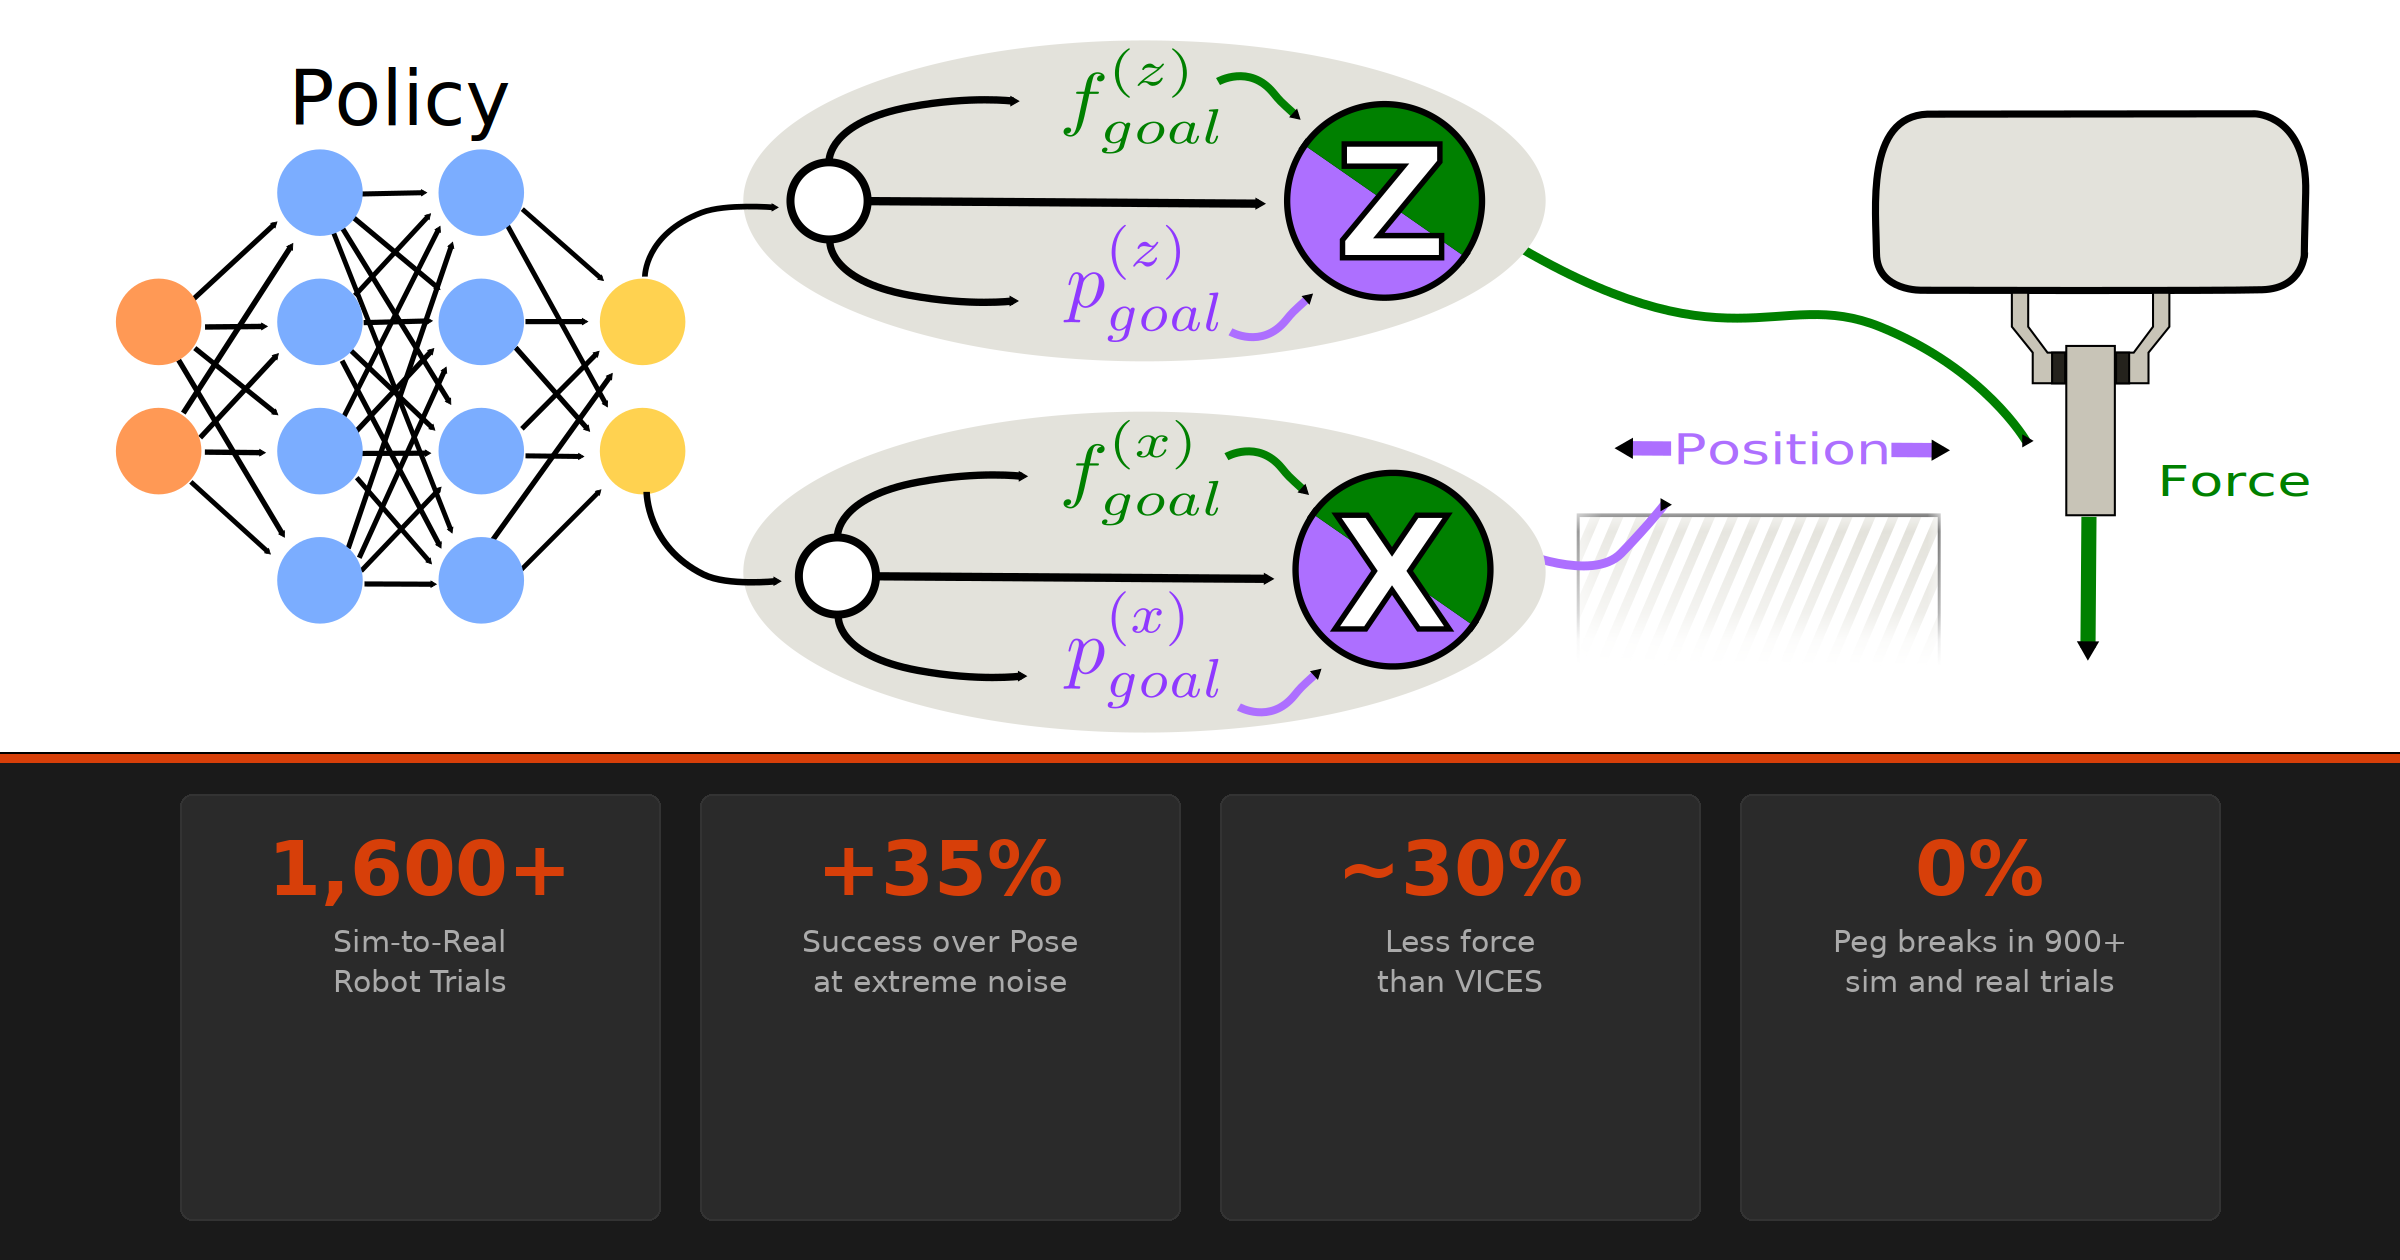
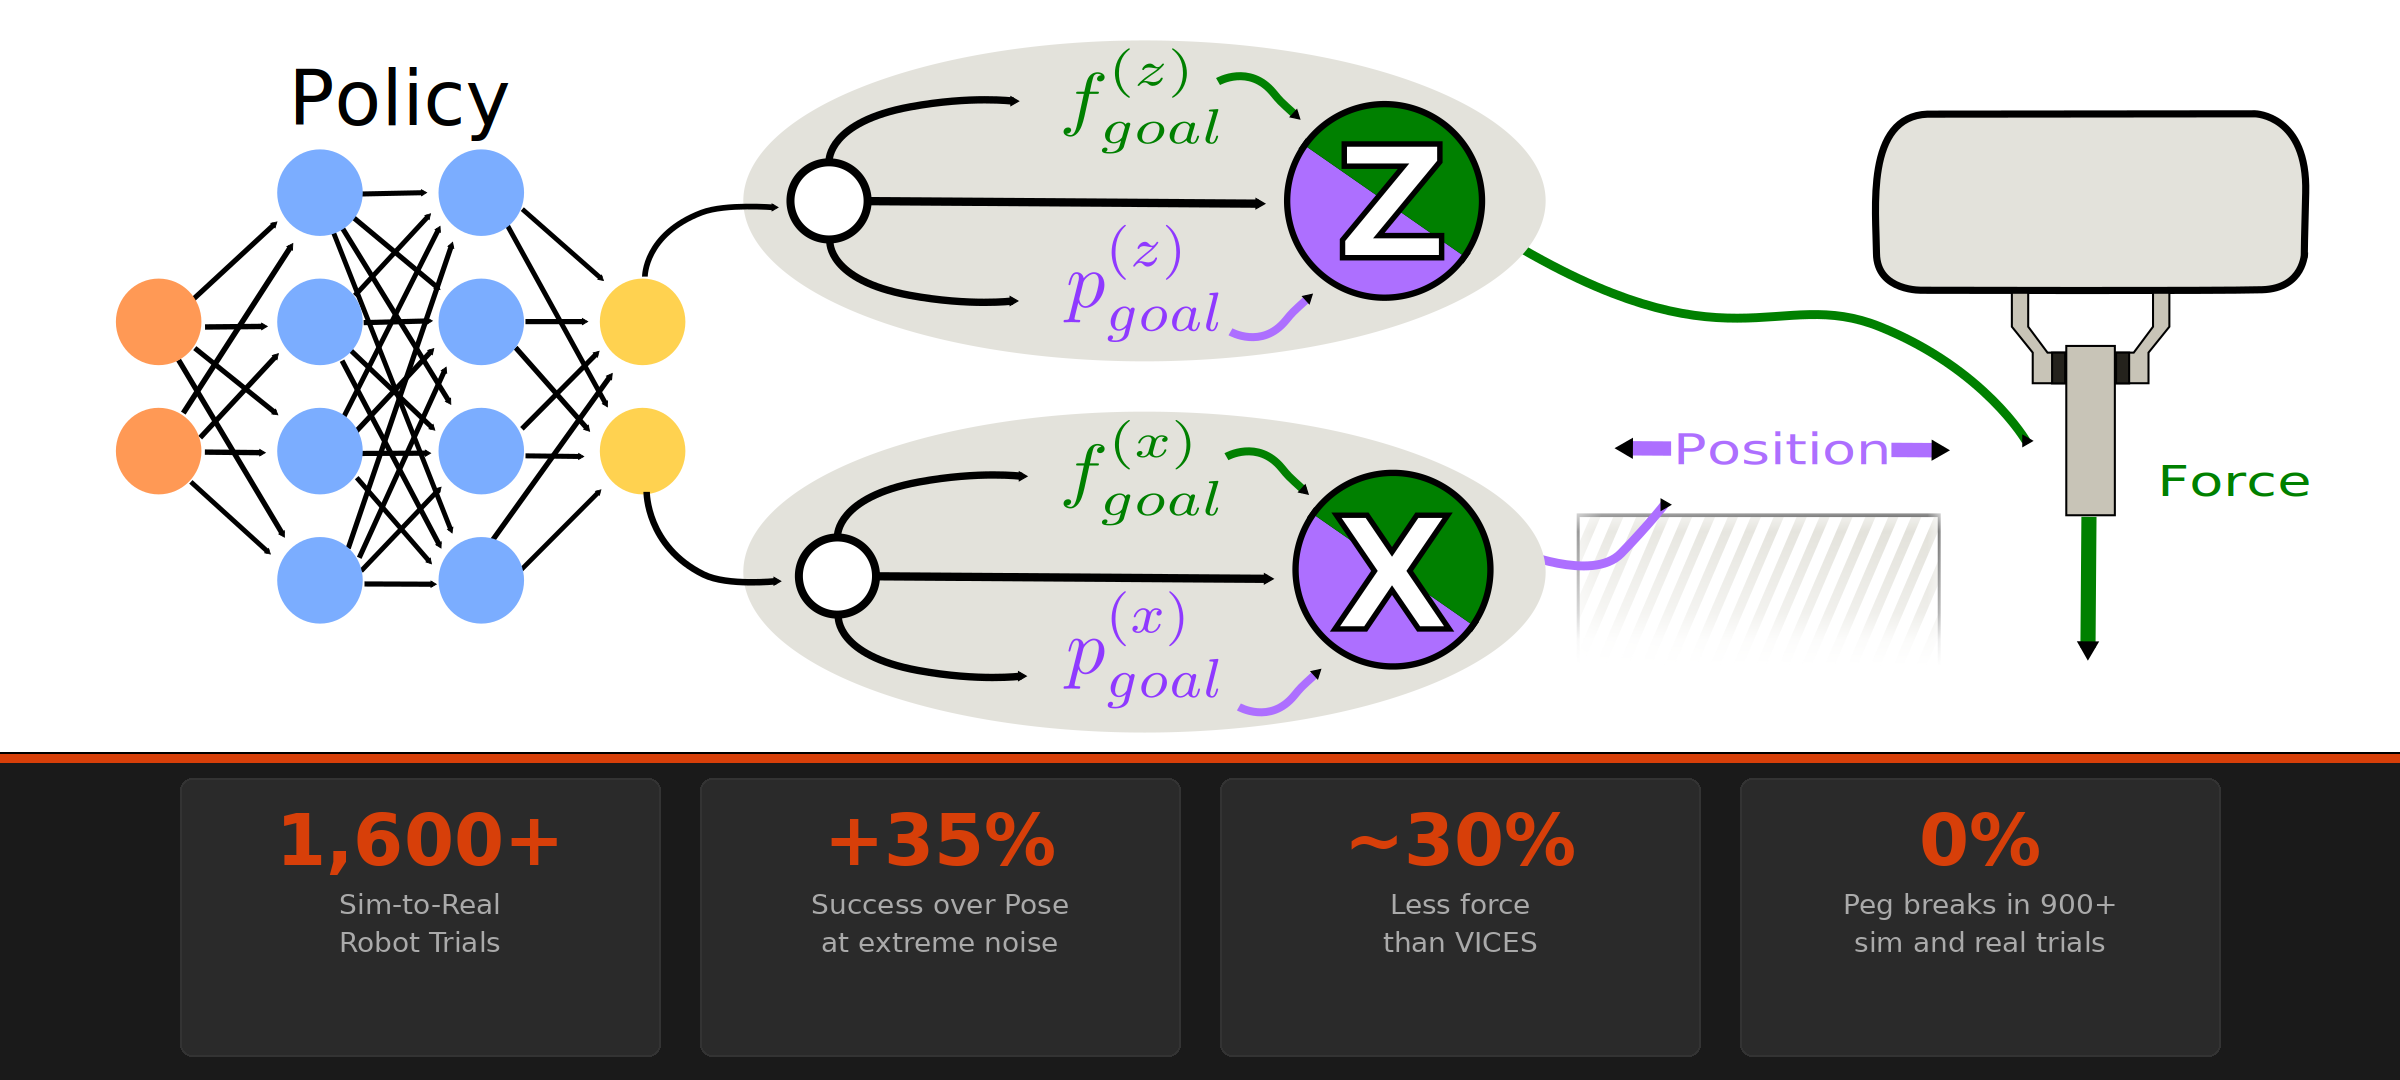
Tighter OG preview cards, remove dead space

Changed region(s): [[0.0, 0.0306, 1.0, 0.8861], [0.7812, 0.0611, 0.9688, 0.1528], [0.75, 0.825, 0.875, 0.8861]]

diff --git a/index.html b/index.html
@@ -15,9 +15,9 @@
   <meta property="og:description" content="Hybrid position-force control policies trained with RL that dynamically select between position and force control per-axis. 1,600+ real-robot trials, +35% over pose-only policies, ~30% less force than VICES.">
   <meta property="og:type" content="article">
   <meta property="og:url" content="https://robonuke.github.io/learning_hybrid-control_for_in-contact_manipulation/">
-  <meta property="og:image" content="https://robonuke.github.io/learning_hybrid-control_for_in-contact_manipulation/assets/og_preview.png?v=4">
+  <meta property="og:image" content="https://robonuke.github.io/learning_hybrid-control_for_in-contact_manipulation/assets/og_preview.png?v=5">
   <meta property="og:image:width" content="2400">
-  <meta property="og:image:height" content="1260">
+  <meta property="og:image:height" content="1080">
   <meta property="og:site_name" content="MATCH Project Page">
   <meta property="article:author" content="Hunter Brown">
   <meta property="article:published_time" content="2025-04-01">
@@ -26,7 +26,7 @@
   <meta name="twitter:card" content="summary_large_image">
   <meta name="twitter:title" content="Learning Hybrid-Control Policies for High-Precision In-Contact Manipulation Under Uncertainty">
   <meta name="twitter:description" content="1,600+ real-robot trials. +35% success over pose-only. ~30% less force than VICES. Zero-shot sim-to-real on Franka FR3.">
-  <meta name="twitter:image" content="https://robonuke.github.io/learning_hybrid-control_for_in-contact_manipulation/assets/og_preview.png?v=4">
+  <meta name="twitter:image" content="https://robonuke.github.io/learning_hybrid-control_for_in-contact_manipulation/assets/og_preview.png?v=5">
 
   <!-- Structured Data for Google Scholar / Search -->
   <script type="application/ld+json">
@@ -34,7 +34,7 @@
     "@context": "https://schema.org",
     "@type": "ScholarlyArticle",
     "headline": "Learning Hybrid-Control Policies for High-Precision In-Contact Manipulation Under Uncertainty",
-    "image": "https://robonuke.github.io/learning_hybrid-control_for_in-contact_manipulation/assets/og_preview.png?v=4",
+    "image": "https://robonuke.github.io/learning_hybrid-control_for_in-contact_manipulation/assets/og_preview.png?v=5",
     "alternativeHeadline": "MATCH: Mode-Aware Training for Contact Handling",
     "author": [
       {"@type": "Person", "name": "Hunter Brown", "url": "https://hunter-brown-robotics.com/", "affiliation": {"@type": "Organization", "name": "Oregon State University"}},
@@ -591,7 +591,7 @@
   <section id="video">
     <h2 class="section__title">Video</h2>
     <div class="video-container">
-      <video controls preload="metadata" poster="assets/og_preview.png?v=4">
+      <video controls preload="metadata" poster="assets/og_preview.png?v=5">
         <source src="assets/supplementary_video.mp4" type="video/mp4">
         Your browser does not support the video tag.
       </video>
